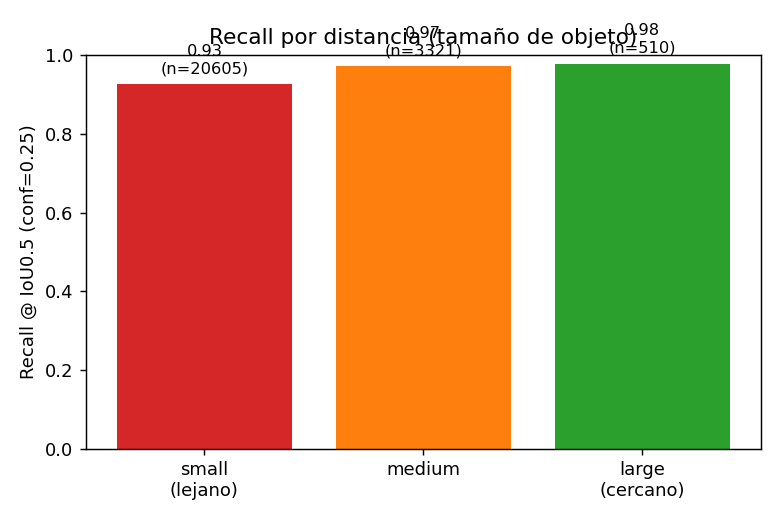
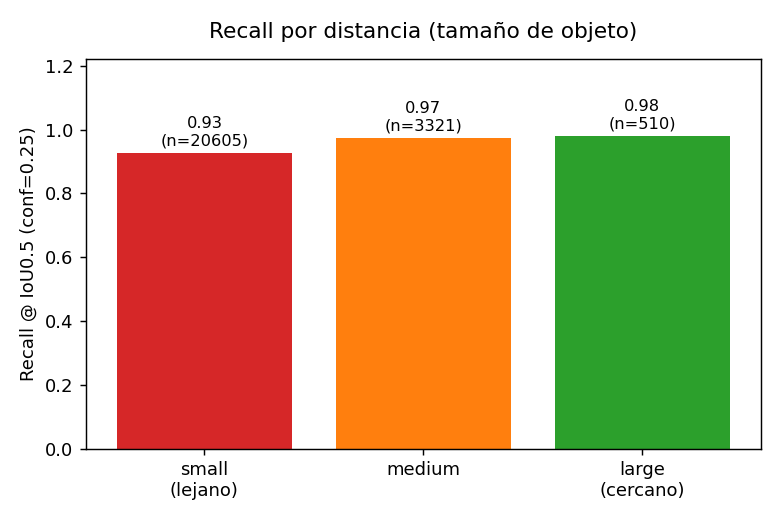
Corrige solapamiento en figuras de robustez y formatea las referencias del informe
- evaluate.py (_bar): margen superior (ylim 1.22 + title pad) para que las
  etiquetas de valor no se solapen con el título del gráfico.
- Regeneradas outputs/robustness_by_distance.png y _by_occlusion.png.
- REPORT.md: sección Referencias como lista completa (10 entradas con autores,
  año, título, venue y enlace) en lugar de solo las claves.
- Recompilados report/REPORT.pdf y report/neurips/main.pdf.

Changed region(s): [[0.0, 0.0308, 0.9846, 0.7692]]

diff --git a/src/evaluate.py b/src/evaluate.py
@@ -268,10 +268,11 @@ def _bar(final, order, labels, title, path, colors):
     vals = [final[b]["recall"] for b in order]
     fig, ax = plt.subplots(figsize=(6, 4))
     bars = ax.bar(labels, vals, color=colors)
-    ax.set_ylim(0, 1.0); ax.set_ylabel("Recall @ IoU0.5 (conf=0.25)")
-    ax.set_title(title)
+    # Margen superior extra para que las etiquetas de valor no se solapen con el título.
+    ax.set_ylim(0, 1.22); ax.set_ylabel("Recall @ IoU0.5 (conf=0.25)")
+    ax.set_title(title, pad=12)
     for bar, b in zip(bars, order):
-        ax.text(bar.get_x() + bar.get_width() / 2, bar.get_height() + 0.02,
+        ax.text(bar.get_x() + bar.get_width() / 2, bar.get_height() + 0.015,
                 f"{final[b]['recall']:.2f}\n(n={final[b]['total']})", ha="center", va="bottom", fontsize=9)
     fig.tight_layout(); fig.savefig(path, dpi=130); plt.close(fig)
 

diff --git a/report/REPORT.md b/report/REPORT.md
@@ -149,4 +149,15 @@ Entrenamos y evaluamos críticamente un detector YOLOv8 para el cumplimiento del
 
 ## Referencias
 
-Ver `report/related_work.md` para las entradas completas (y `report/neurips/references.bib` en formato BibTeX). Claves: [redmon2016yolo], [bochkovskiy2020yolov4], [wang2024yolov9], [jocher2023yolov8], [fang2018nonhardhat], [hayat2022helmet], [wang2018repulsion], [lin2017fpn], [kang2025sodsurvey], [njvisionpower2019shwd].
+*(En formato BibTeX en `report/neurips/references.bib`. Las claves entre corchetes coinciden con las citas del texto.)*
+
+1. **[redmon2016yolo]** Redmon, J., Divvala, S., Girshick, R., Farhadi, A. (2016). *You Only Look Once: Unified, Real-Time Object Detection.* CVPR 2016, pp. 779–788. https://arxiv.org/abs/1506.02640
+2. **[bochkovskiy2020yolov4]** Bochkovskiy, A., Wang, C.-Y., Liao, H.-Y. M. (2020). *YOLOv4: Optimal Speed and Accuracy of Object Detection.* arXiv:2004.10934. https://arxiv.org/abs/2004.10934
+3. **[wang2024yolov9]** Wang, C.-Y., Yeh, I-H., Liao, H.-Y. M. (2024). *YOLOv9: Learning What You Want to Learn Using Programmable Gradient Information.* ECCV 2024. https://arxiv.org/abs/2402.13616
+4. **[jocher2023yolov8]** Jocher, G., Chaurasia, A., Qiu, J. (2023). *Ultralytics YOLOv8* (software, v8.x). https://github.com/ultralytics/ultralytics
+5. **[fang2018nonhardhat]** Fang, Q., Li, H., Luo, X., Ding, L., Luo, H., Rose, T. M., An, W. (2018). *Detecting non-hardhat-use by a deep learning method from far-field surveillance videos.* Automation in Construction, 85, 1–9. https://doi.org/10.1016/j.autcon.2017.09.018
+6. **[hayat2022helmet]** Hayat, A., Morgado-Dias, F. (2022). *Deep Learning-Based Automatic Safety Helmet Detection System for Construction Safety.* Applied Sciences, 12(16), 8268. https://doi.org/10.3390/app12168268
+7. **[wang2018repulsion]** Wang, X., Xiao, T., Jiang, Y., Shao, S., Sun, J., Shen, C. (2018). *Repulsion Loss: Detecting Pedestrians in a Crowd.* CVPR 2018, pp. 7774–7783. https://arxiv.org/abs/1711.07752
+8. **[lin2017fpn]** Lin, T.-Y., Dollár, P., Girshick, R., He, K., Hariharan, B., Belongie, S. (2017). *Feature Pyramid Networks for Object Detection.* CVPR 2017, pp. 2117–2125. https://arxiv.org/abs/1612.03144
+9. **[kang2025sodsurvey]** Kang, M., et al. (2025). *Small Object Detection: A Comprehensive Survey on Challenges, Techniques and Real-World Applications.* arXiv:2503.20516. https://arxiv.org/abs/2503.20516
+10. **[njvisionpower2019shwd]** njvisionpower (2019). *Safety-Helmet-Wearing-Dataset (SHWD).* GitHub. https://github.com/njvisionpower/Safety-Helmet-Wearing-Dataset